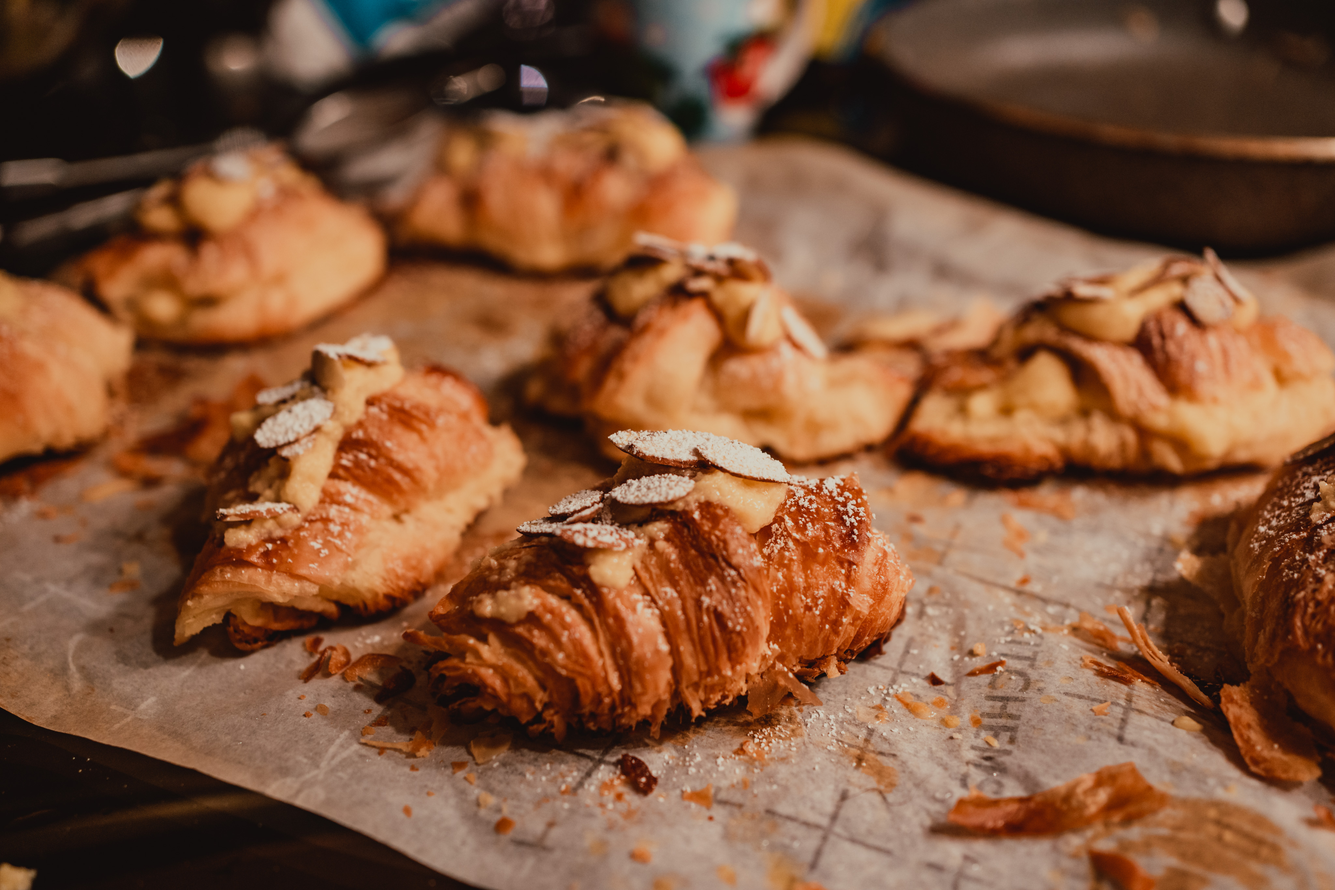
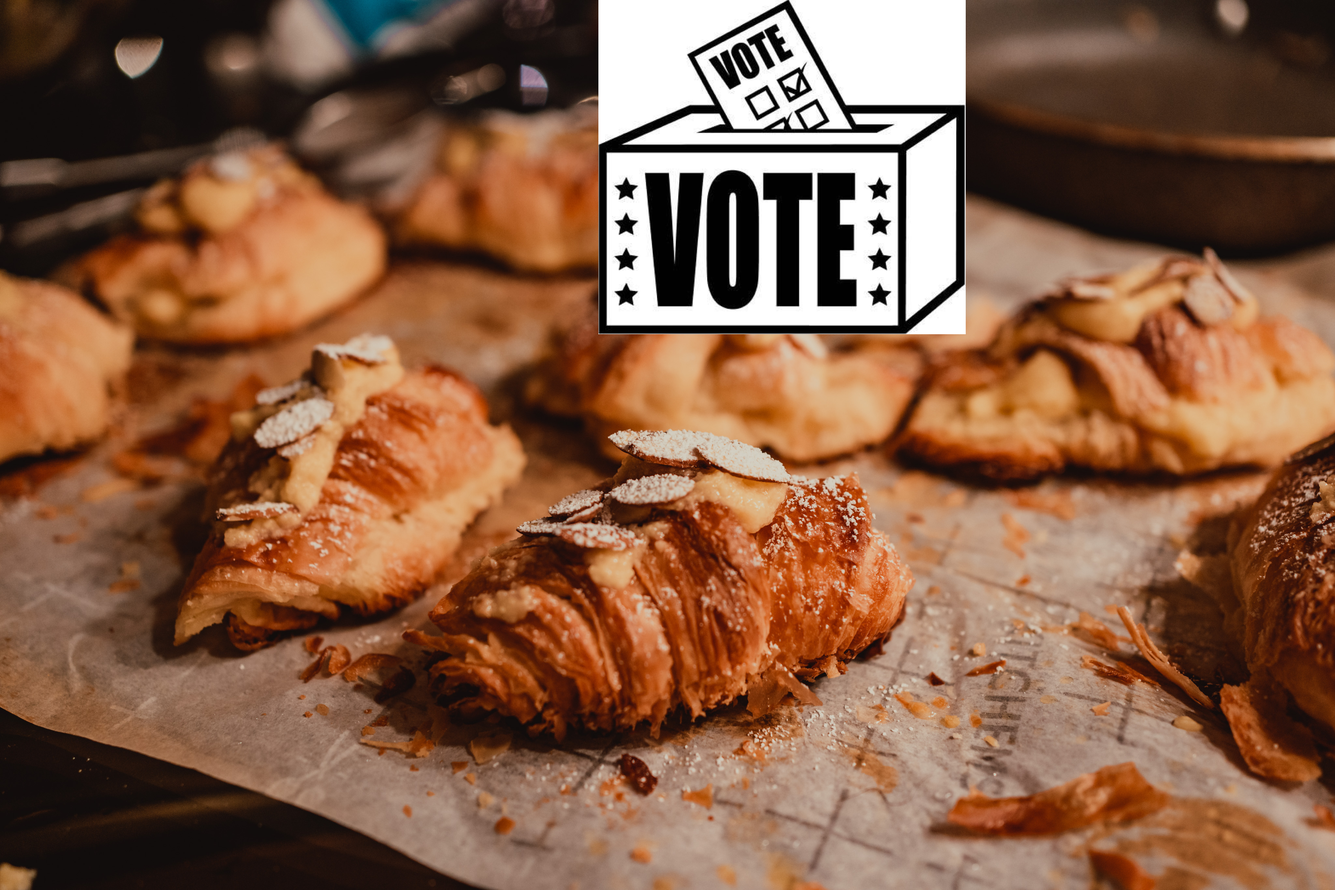
tags?

Changed region(s): [[0.4375, 0.0, 0.75, 0.3734]]

diff --git a/election-march-2020-guide/index.html b/election-march-2020-guide/index.html
@@ -3,34 +3,42 @@
 
 <head>
     <!-- Basic Page Needs
-		–––––––––––––––––––––––––––––––––––––––––––––––––– -->
+        –––––––––––––––––––––––––––––––––––––––––––––––––– -->
     <meta charset="utf-8">
     <title>March 2020 San Francisco election guide</title>
     <meta name="description" content="Your guide to the San Francisco primary elections.">
     <meta name="author" content="Barak Gila">
+    <meta property="og:description" content="Your guide to the San Francisco primary elections." />
+    <meta property="og:type" content="article" />
+    <meta property="article:published_time" content="2020-02-08 13:00:00 -0400" />
+    <meta property="article:modified_time" content="2020-02-08 13:00:00 -0400" />
+    <meta property="article:author" content="Barak Gila">
+    <meta name="twitter:card" content="summary_large_image">
+    <meta name="twitter:site" content="@barakgila">
+    <meta name="twitter:image" content="http://barakgila.com/wiener%20village.jpeg">
     <!-- Mobile Specific Metas
-		–––––––––––––––––––––––––––––––––––––––––––––––––– -->
+        –––––––––––––––––––––––––––––––––––––––––––––––––– -->
     <meta name="viewport" content="width=device-width, initial-scale=1">
     <!-- FONT
-		–––––––––––––––––––––––––––––––––––––––––––––––––– -->
+        –––––––––––––––––––––––––––––––––––––––––––––––––– -->
     <link href='//fonts.googleapis.com/css?family=Raleway:400,300,600' rel='stylesheet' type='text/css'>
     <!-- CSS
-		–––––––––––––––––––––––––––––––––––––––––––––––––– -->
+        –––––––––––––––––––––––––––––––––––––––––––––––––– -->
     <link rel="stylesheet" href="/normalize.css">
     <link rel="stylesheet" href="/skeleton.css">
     <link rel="stylesheet" href="custom.css">
     <!-- Scripts
-		–––––––––––––––––––––––––––––––––––––––––––––––––– -->
+        –––––––––––––––––––––––––––––––––––––––––––––––––– -->
     <script src="//ajax.googleapis.com/ajax/libs/jquery/2.1.1/jquery.min.js"></script>
     <!-- Favicon
-		–––––––––––––––––––––––––––––––––––––––––––––––––– -->
+        –––––––––––––––––––––––––––––––––––––––––––––––––– -->
     <link rel="icon" type="image/png" href="/favicon-32x32.png" sizes="32x32" />
     <link rel="icon" type="image/png" href="/favicon-16x16.png" sizes="16x16" />
 </head>
 
 <body>
     <!-- Primary Page Layout
-		–––––––––––––––––––––––––––––––––––––––––––––––––– -->
+        –––––––––––––––––––––––––––––––––––––––––––––––––– -->
     <div class="container">
         <section class="header">
             <div class="ten columns">
@@ -236,12 +244,11 @@
             <h5><strong>Prop E: No</strong></h5>
             <p>This measure would further restrict SF office development, unless the city meets goals for affordable housing construction that are unlikely to be met.</p>
             <p>It’s hard to be more critical of this measure than the city’s economist, which <a href="https://www.sfchronicle.com/business/article/SF-economist-Prop-E-office-limits-would-slash-15007843.php">calculated</a> that it would, after 20 years</p>
-			<ul>
+            <ul>
                 <li>Cut GDP by 8.5%</li>
                 <li>Cut the population by 5.8%</li>
                 <li>Cut affordable housing funding by $600M, or about 1000 homes, because when offices are built, fees generate funding for affordable housing, and this measure would reduce the number of offices that are built.</li>
             </ul>
-
             <p> It is a worthy goal to correct the housing/jobs imbalance in the Bay Area, by building more homes. But if we don’t allow offices to be built in the city, accessible by BART and Caltrain, more of them will be built in car-dependent suburbs. The pressure on affordability will still be there, but we’ll have worse traffic and pollution problems. Stripe <a href="https://sfist.com/2019/10/24/stripe-is-leaving-its-san-francisco-headquarters-for-south-san-francisco/">recently decided</a> to move to South San Francisco, in part because it could find a suitable space here. Vote No on this anti-growth measure.
                 <br><br>
                 <em>Threshold to pass:</em> 50%<br>
@@ -250,8 +257,8 @@
             </p>
             <br><br>
             <h4>Coda</h5>
-            <p>Thanks for reading! Let me know of any errors, comments, or simply if you found this a useful guide! It would make my day.</p>
-            <p><em>Thanks to Vadim Graboys for your helpful suggestions.</em></p>
+                <p>Thanks for reading! Let me know of any errors, comments, or simply if you found this a useful guide! It would make my day.</p>
+                <p><em>Thanks to Vadim Graboys for your helpful suggestions.</em></p>
         </section>
     </div>
     <!-- End Document
